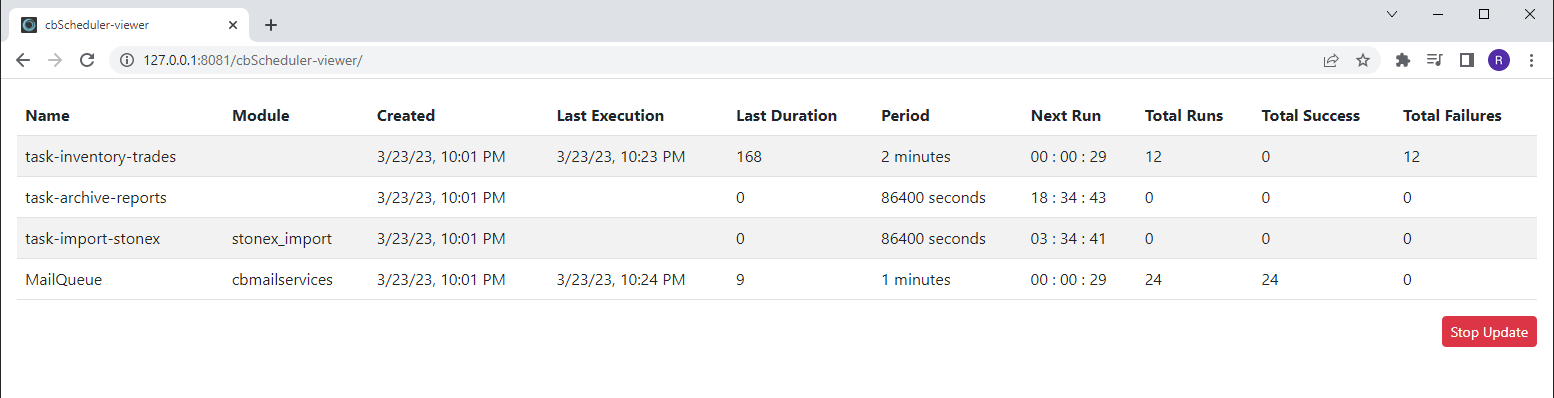
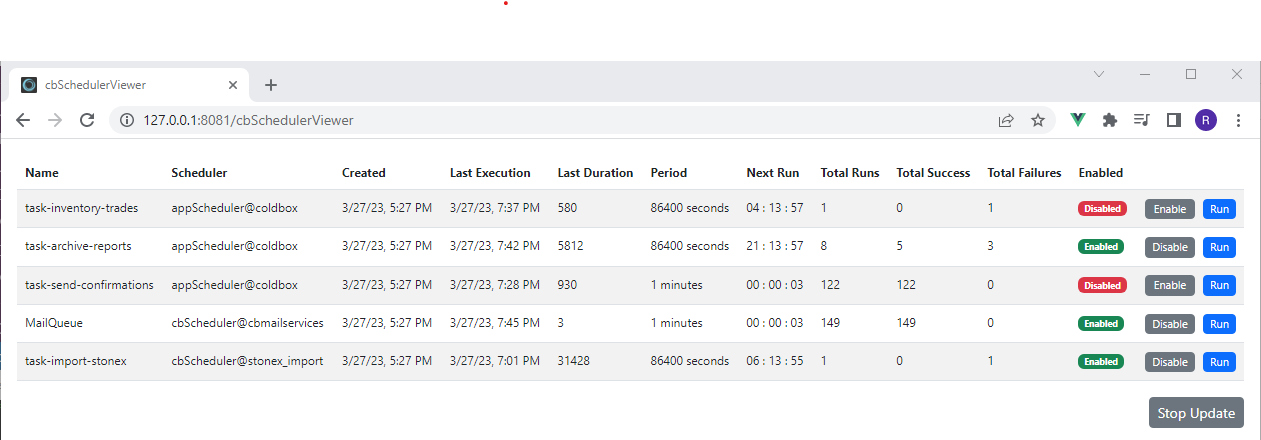
further dev

diff --git a/README.md b/README.md
@@ -1,5 +1,7 @@
 
-# # [](https://www.forgebox.io/view/cbScheduler-viewer#cbscheduler-viewer)cbScheduler-viewer
+
+# # [](https://www.forgebox.io/view/cbSchedulerViewer#cbSchedulerViewer)cbSchedulerViewer
+![alt text](https://github.com/ryanalbrecht/cbSchedulerViewer/blob/main/preview.png?raw=true)
 
 ## Introduction
 
@@ -14,10 +16,26 @@ This module should be considered experimetal, so use at your own risk until furt
 
 ## Installation
 
-Installation is easy through [CommandBox](https://www.ortussolutions.com/products/commandbox) and [ForgeBox](https://www.coldbox.org/forgebox).  Simply type `box install cbScheduler-viewer` to get started.
+Installation is easy through [CommandBox](https://www.ortussolutions.com/products/commandbox) and [ForgeBox](https://www.coldbox.org/forgebox).  Simply type `box install cbSchedulerViewer` to get started.
 
 ## Usage
-The module should be automatically registered and ready to use. Simply navigate to `/cbScheduler-viewer`
-e.g. `http://127.0.0.1:8081/cbScheduler-viewer`
 
-![alt text](https://github.com/ryanalbrecht/cbScheduler-viewer/blob/main/preview.png?raw=true)
+The module should be automatically registered and ready to use. Simply navigate to `/cbSchedulerViewer`
+
+e.g. `http://127.0.0.1:8081/cbSchedulerViewer`
+
+By default the module will retrieve tasks from all module schedulers as well as the default global scheduler (appScheduler@coldbox). This can be overriden by creating the following struct in `moduleSettings`  in your config.cfc. 
+
+It will be your job to override the closure and return an array of schedulers.
+
+```
+// cbSchedulerViewer
+cbSchedulerViewer = {
+	getSchedulers = function(){
+		var wirebox = controller.getWirebox();
+		return [ 
+			wirebox.getInstance('appScheduler@coldbox')
+		];
+	}
+}
+```
